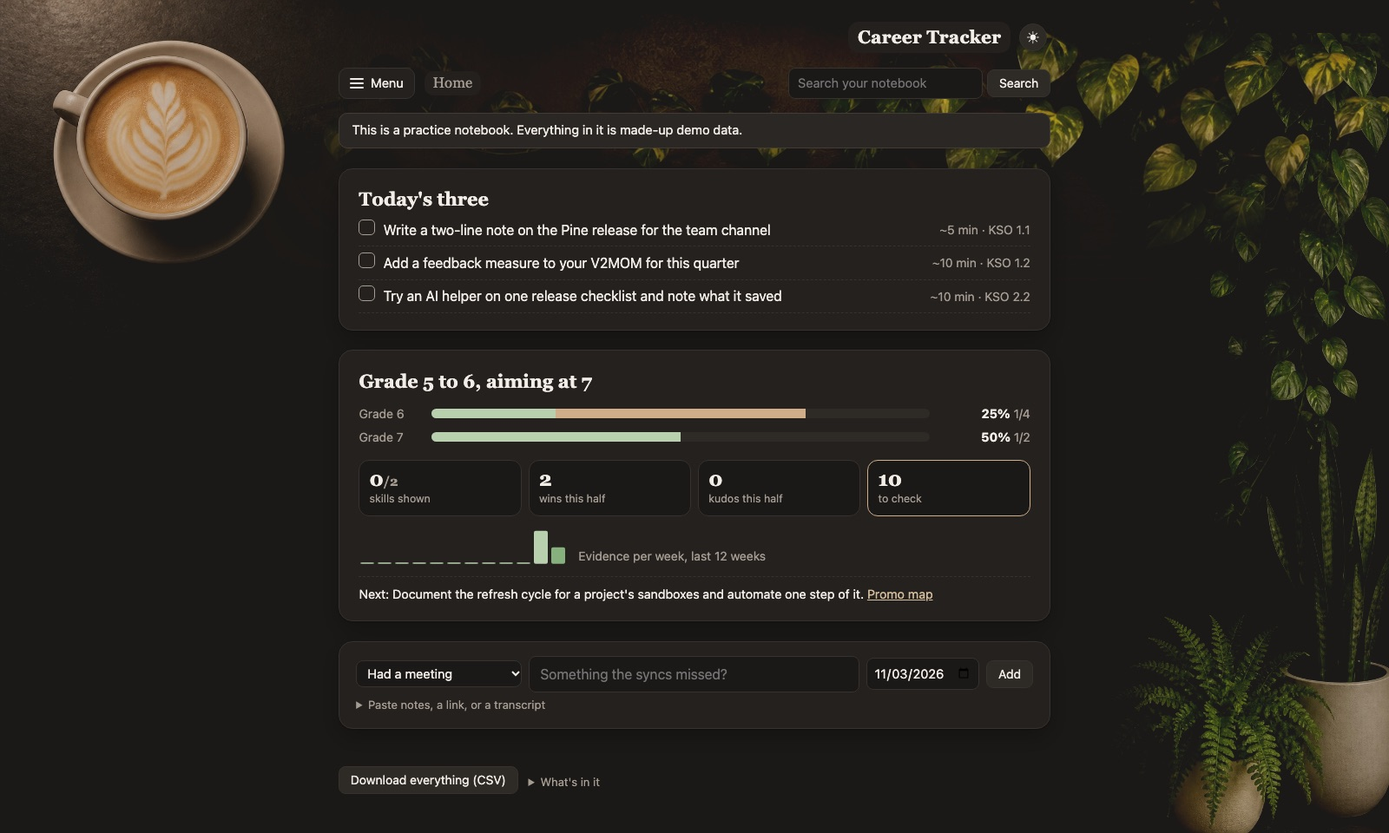
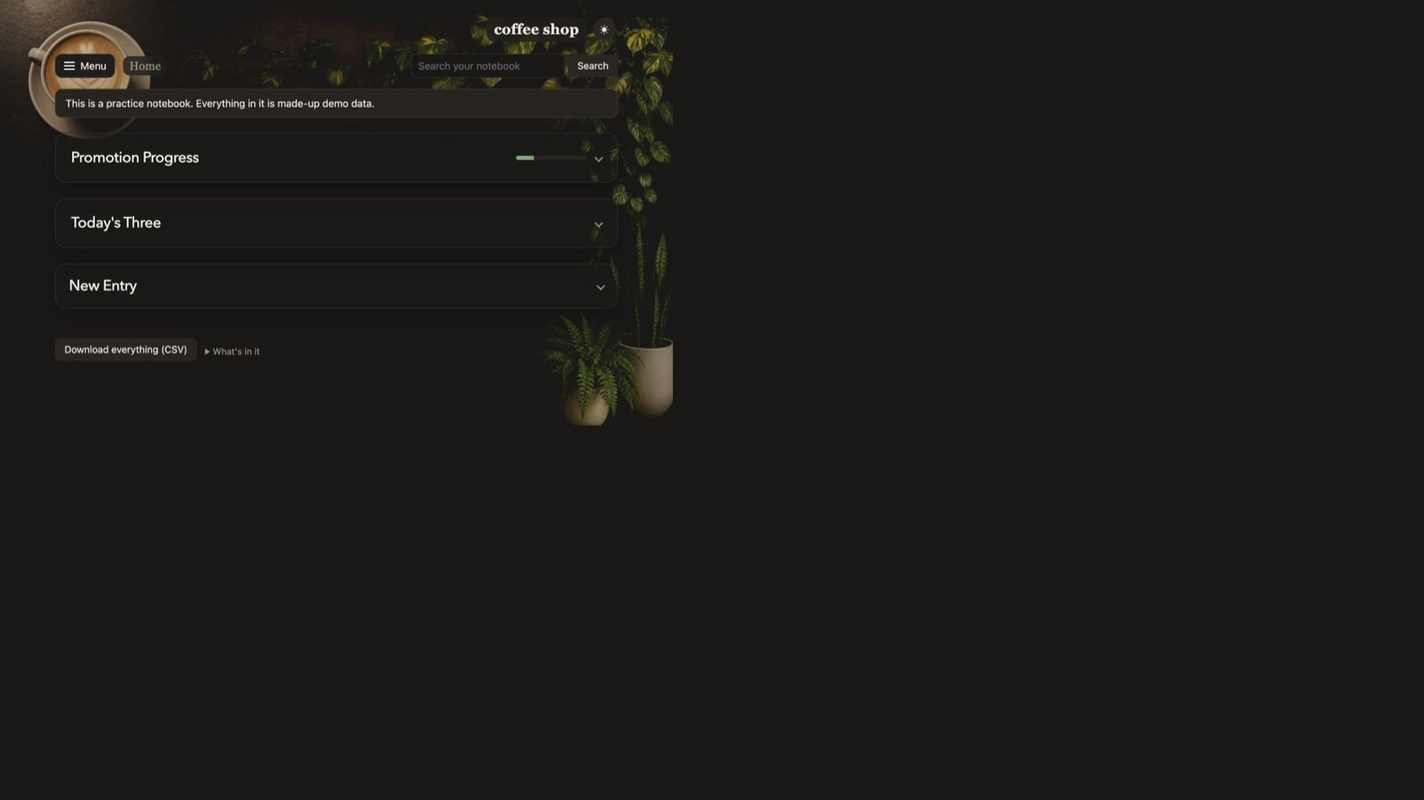
Make the docs match the app, in plain words.
The README still described the old Home and said a V2MOM was required to sort records. The setup page, the Windows tasks, and a current Home screenshot are what a new person actually sees.

diff --git a/src/coffeeshop/sync_all.py b/src/coffeeshop/sync_all.py
@@ -1,9 +1,8 @@
-"""`coffeeshop sync all`: back up, then run the same Slack, Google and GitHub syncs as the buttons, with a log.
-Once a month it also re-reads the V2MOM and re-estimates the KSOs, and once a day (from 8 AM) it suggests the daily
-three, last, so it sees the fresh work.
+"""`coffeeshop sync all`: back up, then run the same Slack, Google, and GitHub syncs as the buttons.
 
-Run by the scheduled task at 8 AM and 6 PM and at login. A run that's already covered by an earlier one since
-the latest scheduled time does nothing, so the login catch-up is cheap.
+Once a month it re-reads the V2MOM and re-estimates the KSOs. Once a day, from 8 AM, it suggests the daily three last, so they see the new work.
+
+The schedule runs this at 8 AM, 6 PM, and at login. If a run already happened since the last of those times, this one does nothing.
 """
 from __future__ import annotations
 

diff --git a/src/coffeeshop/slack/importer.py b/src/coffeeshop/slack/importer.py
@@ -49,10 +49,9 @@ def slack_index(s: Session) -> tuple[dict[str, list[JournalEntry]], dict[str, li
 
 
 def linked_entry(s: Session, link: str, day: str | None = None, index=None) -> JournalEntry | None:
-    """The Slack record whose link is this message, if one is already saved.
+    """The saved Slack record for this message link, if there is one.
 
-    A thread that spans days shares an id prefix. The record with this message's own link wins. A shared prefix
-    matches only when one record has it, or `day` names which one. Pass `index` from slack_index to reuse one read.
+    A thread that runs past midnight is one record per day. The record with this exact link wins. Otherwise the record for `day` wins, or the only record if there is just one. Pass `index` from slack_index so a sync reads the notebook once.
     """
     msg = link_key(link)
     if not msg:

diff --git a/src/coffeeshop/v2mom/connector.py b/src/coffeeshop/v2mom/connector.py
@@ -120,9 +120,7 @@ def _owner(name: str) -> frozenset[str]:
 
 
 def newest_pdf(stored: str) -> Path | None:
-    """The newest V2MOM PDF next to the stored one with the same owner in its name (so "… (1).pdf" re-downloads and
-    next year's count, but a colleague's V2MOM saved next to yours doesn't), else the stored file. The latest fiscal
-    year in the name wins over the newest file, so last year's PDF opened again isn't read."""
+    """Which V2MOM PDF to read. A re-download named "... (1).pdf" counts, and a later fiscal year in the name wins over a newer file. Someone else's PDF in the same folder is ignored. If none match, the stored file is used."""
     p = Path(stored)
     try:
         found = [x for x in p.parent.iterdir()

diff --git a/docs/INSTRUCTIONS.md b/docs/INSTRUCTIONS.md
@@ -4,7 +4,9 @@ Plain-language notes on running and testing the app. New questions and answers g
 
 ## Where things stand
 
-Coffee Shop is your work notebook. It pulls in your Google Calendar meetings, finished Google Tasks, the Docs you wrote, your Slack messages and tracker, kudos, and GitHub pull requests, has Claude sort each one against your role's leveling guide, your V2MOM, and your KSOs, and keeps your wins, so the Promo map, the promo case, the KSO page, and each morning's three small tasks reflect what you've actually done. Everything is stored on this laptop. Things go out only when Claude reads or sorts: the syncs and their buttons, the Claude review, Write my promo case, Suggest now, Re-estimate on the KSOs page and the `kso` commands, and Send to Google Docs (see [What goes to Claude](TECHNICAL.md#what-goes-to-claude)).
+Coffee Shop is your work notebook. It pulls in your Google Calendar meetings, finished Google Tasks, the Docs you wrote, your Slack messages and tracker, kudos, and GitHub pull requests. Claude sorts each one against your role's leveling guide. Your V2MOM and your KSOs join that sort when you connect them. Your wins stay too, so the Promo map, the promo case, the KSO page, and each morning's three small tasks reflect what you have actually done.
+
+Everything stays on this laptop. Something leaves only when Claude reads or sorts it: a sync, Have Claude read, Write my promo case, Suggest now, Re-estimate, a `kso` command, or Send to Google Docs. The full list is in [What goes to Claude](TECHNICAL.md#what-goes-to-claude).
 
 There's also a **practice notebook** of made-up data, for trying things out without touching your real one.
 
@@ -101,7 +103,17 @@ It lists the roles, then your role's grades with their job titles, saves your ch
 
 Colors come from points. A linked entry is worth 1, and a small, medium, or large win is worth 2, 3, or 4. One point makes an item Started, 3 make it Shown, and 6 make it Strong. So one large win shows an experience, and a large win plus a medium one makes it strong. An entry and the win made from it only count once.
 
-**Write my promo case** (on the Promo map, or at http://127.0.0.1:8765/promo/case) has Claude draft the case itself. Pick who it's about (your first name, remembered for next time) and the window (the last 12 months by default), then press the button; it takes a minute or two, with progress per section. The draft has five sections: **Summary, Key accomplishments, Impact, Behaviors & values, Growth areas**, written in the third person. Claude writes them only from your notebook: wins and why they mattered, pieces of work, linked records, the impact numbers, and the Promo map's gaps and next steps, all dated inside the window. Every sentence ends with small [numbers] that jump to its sources, listed at the bottom as they were when the draft was written. The app then checks each sentence itself: one with no source, or with a number that doesn't appear in its evidence, is marked **Check this** with the reason. The check catches invented numbers and missing sources, not every wrong word, so read the draft before you use it. An activity count (like "12 deployments") is only used in a section that also cites work of that kind, so a number never shows up with nothing behind it. If the window has fewer than three linked wins, pieces of work, or records, the page says so and doesn't ask Claude; log more, let a sync link your records, or pick wider dates. Under **Style example (optional)** you can paste a strong promo case, yours or someone else's. Claude copies only its tone and structure, never its facts, and the checks above still apply to every sentence. It's kept on this computer only (in `profile.json`, next to your database), goes to Claude when you write or rewrite a section, and is cleared by emptying the box and writing again. Every draft is kept. From Terminal: `uv run coffeeshop promo write` (with `--start`, `--end`, `--name`).
+**Write my promo case** is on the Promo map, or at http://127.0.0.1:8765/promo/case. Pick who it is about (your first name, remembered next time) and the dates (the last 12 months by default), then press the button. It takes a minute or two, and each section shows its progress.
+
+The draft has five sections: **Summary, Key accomplishments, Impact, Behaviors & values, Growth areas**. They are written in the third person, and only from your notebook: wins and why they mattered, pieces of work, linked records, the impact numbers, and the Promo map's gaps and next steps. Only items inside the dates are used.
+
+Every sentence ends with small [numbers] that jump to its sources. The sources are listed at the bottom as they were when the draft was written. The app then checks each sentence. One with no source, or with a number that is not in its evidence, is marked **Check this** and the reason is shown. The check catches invented numbers and missing sources, not every wrong word, so read the draft before you use it. A count such as "12 deployments" is used only in a section that also cites work of that kind.
+
+If the dates hold fewer than three linked wins, pieces of work, or records, the page says so and does not ask Claude. Log more, let a sync link your records, or pick wider dates.
+
+Under **Style example (optional)** you can paste a strong promo case, yours or someone else's. Claude copies only its tone and structure, never its facts, and the checks above still apply. The example stays on this computer, in `profile.json` next to your database. It is sent to Claude when you write or rewrite a section. Empty the box and write again to clear it. Every draft is kept.
+
+From Terminal: `uv run coffeeshop promo write` (with `--start`, `--end`, `--name`).
 
 **V2MOM alignment.** Once your V2MOM is loaded and records are linked to its methods, the evidence also has one piece per current method with work in the window, like "V2MOM M2 (Build Reusable Pipeline Accelerators, On Track, 50% progress): 3 wins and 12 records between … and …, for example: …", and each win and piece of work says which methods it advances ("Advances V2MOM M2."). These go to the Summary and Impact sections, so the case can say a piece of work was "advancing V2MOM method M2 (its name)", but only when a source it cites says so; the usual check applies. Methods with nothing in the window, and ones dropped from your V2MOM, are left out. When your V2MOM came from the PDF, each check-in with manager comments also becomes a piece, like "V2MOM check-in (Midyear FY27), manager comments: …" (up to about 600 characters), for the Summary, Key accomplishments, and Behaviors & values, so the case can quote your manager's own words. Check-ins without comments are left out. With no V2MOM loaded, the case is written exactly as before.
 
@@ -275,7 +287,7 @@ uv run coffeeshop github unskip example-org/notes-app
 
 Adding a rule also removes the matching records already in the notebook. **Remove** in the Intake Review Queue works too, and a removed week stays removed.
 
-If `gh` isn't signed in, the sync says so; run `gh auth login`.
+If `gh` is not installed or not signed in, that step is skipped and you are not notified. Install it and run `gh auth login` when you want pull requests in the notebook.
 
 ## V2MOM: your Vision, Values, Methods, Obstacles, and Measures
 
@@ -295,7 +307,16 @@ The app pulls the text out of the PDF on your laptop (with pypdf), then Claude (
 
 **Or a Google Doc** (still works): open your V2MOM in the V2MOM app, expand each method so its measures show, select the whole page, copy, and paste it into a new Google Doc; the page's extra text is ignored. Then connect the Doc's link instead: `uv run coffeeshop v2mom connect "https://docs.google.com/document/d/…/edit"`. The sync reads it through Claude Code's Google Workspace connector. The Doc has no check-ins or measure comments. Connecting the PDF later keeps your methods and their links.
 
-**Keeping it current.** The scheduled sync re-reads your V2MOM once a month. After each check-in, download the PDF again and upload it on the V2MOM page (or, if you connected a folder, save the new PDF there and press **Sync V2MOM** on Home). Each sync reads the newest PDF with "V2MOM" in its name in that folder, so a re-download saved as "… (1).pdf" is picked up without connecting again. The latest fiscal year in the name comes first, so downloading last year's PDF to look back at doesn't replace this year's, and next year's FY28 PDF is picked up by itself. If the file is gone, the sync says where to save it. With a Doc, paste the updated page over the Doc's text instead. Methods are matched by name, so reordering them is fine, and a method renamed in the same place keeps its row too. A method you drop is kept but marked inactive, so anything linked to it still makes sense. A new fiscal year (FY28) starts a new V2MOM and leaves last year's as it was.
+**Keeping it current.** The scheduled sync re-reads your V2MOM once a month. After each check-in, download the PDF again and upload it on the V2MOM page. If you connected a folder, save the new PDF there and press **Sync V2MOM** on Home.
+
+Which file is read:
+
+- The name must contain "V2MOM".
+- A re-download saved as "… (1).pdf" is picked up. You do not connect it again.
+- The latest fiscal year in the name wins. Opening last year's PDF does not replace this year's. An FY28 PDF is picked up on its own.
+- If the file is gone, the sync says where to save it.
+
+With a Doc, paste the updated page over the Doc's text instead. Methods are matched by name, so reordering them is fine, and a method renamed in the same place keeps its row. A method you drop is kept but marked inactive, so anything linked to it still makes sense. A new fiscal year (FY28) starts a new V2MOM and leaves last year's as it was.
 
 **The V2MOM chip** (on Home and at the top of the Intake Review Queue) is green when your V2MOM was read in the last 31 days, orange when it's older, and grey with a hint when nothing is connected yet. The PDF's path or the Doc's id is kept in `v2mom.json` in the notebook folder, readable only by you (a `v2mom.doc` from before still works). An upload is saved in that folder as `v2mom/V2MOM.pdf`, also only you can read it. A PDF you connected with the command stays where you saved it. The text passes through Claude Code to be read.
 
@@ -446,12 +467,27 @@ This uses your calendar's private address, so no Google Cloud setup or admin sig
 3. In Terminal (in `~/Documents/coffeeshop`): `uv run coffeeshop calendar connect`, paste it (nothing shows as you paste), and press Enter.
 4. `uv run coffeeshop calendar sync` pulls the last 14 days (`--days 30` for more, max 60).
 
-Meetings show on the **Meetings** tab with a small calendar icon (hover it for the source, kind, and date). Only the **title and time** are kept; attendees, descriptions, locations, and video links are dropped before anything is saved. All-day items and cancelled meetings are skipped. Running sync again never duplicates; a renamed or moved meeting is updated, and a meeting that disappeared is removed unless you've attached notes to it. Anything you typed yourself is never touched. The address is stored in `calendar.url` in your notebook folder, readable only by you. If you ever reset the secret address in Google, run `connect` again.
+Meetings show on the **Meetings** tab with a small calendar icon. Hover it for the source, kind, and date. Only the **title and time** are kept. Attendees, descriptions, locations, and video links are dropped before anything is saved. All-day items and cancelled meetings are skipped.
+
+Running it again does not add a second copy. A meeting Sync Google already saved, with the same day and title, is left as it is, and this command does not delete those. A meeting this command saved is updated if you rename or move it, and removed if it disappears, unless you attached notes. Anything you typed yourself is never touched.
+
+The address is stored in `calendar.url` in your notebook folder, readable only by you. If you reset the secret address in Google, run `connect` again.
 
 Before using it on a work calendar, check that titles of meetings (which can name other people or customer-related topics) are okay to keep on this laptop. This iCal route isn't part of the scheduled sync; the scheduled sync uses the Sync Google route below.
 
 **Can I sync my calendar without the secret iCal address?**
-Yes. On Home, press **Sync Google** (or run `uv run coffeeshop calendar pull` for the calendar part only). Sync Google does Calendar, the Google Docs you wrote (see that section), Google Tasks (only ones you've marked complete in Google, from the task lists changed since the last pull; open tasks never come in, and one you finish shows up on the next sync, dated the day you completed it; a task you removed while it was open still comes in once you finish it; a task list that couldn't be read is reported, never treated as deleted; the pull then isn't counted, so the next Sync Google looks back to the same point and picks up what was missed), and meeting-note summaries in one go, then has Claude link the new records to the leveling guide. Only meetings that have ended come in: a meeting later today shows up on the first sync after it's over, by which time its Gemini notes are usually attached (the 8 AM sync then catches notes that arrived overnight). A progress bar under the button ticks through each step and shows any error in plain words; you can keep using the app while it runs. If the calendar connector answers with an error (for example an expired Google sign-in), that step stops with the message instead of reading it as an empty calendar, so no meetings are removed. For the calendar part, it starts Claude Code in the background with permission to use only the calendar tool, fetches yesterday's and today's meetings through the Google Workspace connector, and saves title, time, and Google file links (Gemini notes, recordings). Declined meetings and all-day items are skipped. It then reads the Google Docs attached to each meeting (Gemini notes, shared notes) and saves a short "AI summary" under the meeting, with the notes linked beside it; meetings without notes say so. Expect a few minutes when there are many meetings. Nothing duplicates, and a failed summary is retried the next time you press the button. Recordings and chat files aren't read. Meeting titles, times, and attendee details pass through the AI tool on the way, so it only runs when you press it or when the schedule you installed runs it. It needs Claude Code installed and the Google Workspace connector signed in. `coffeeshop calendar pull --days 7` reaches further back (max 14).
+Yes. On Home, press **Sync Google**. For the calendar part only, run `uv run coffeeshop calendar pull`.
+
+Sync Google does four things, then has Claude link the new records to the leveling guide:
+
+- **Calendar.** Only meetings that have ended come in. One later today shows up on the first sync after it ends, which is usually when its Gemini notes are attached. The 8 AM sync catches notes that arrived overnight. Declined meetings and all-day items are skipped. Title, time, and Google file links (notes, recordings) are saved.
+- **Docs you wrote.** See that section. Only files from the last 7 days are summarized. A failure is tried again on the next sync, while the file is still inside that window.
+- **Tasks.** Only tasks you have marked complete in Google, from lists that changed since the last pull. Open tasks never come in. One you finish shows up on the next sync, dated the day you completed it. A task you removed while it was open still comes in once you finish it. A list that could not be read is reported, never treated as deleted, and the pull is not counted, so the next Sync Google looks back to the same point.
+- **Meeting notes.** The Docs attached to each meeting are read, and a short "AI summary" is saved under the meeting. Meetings without notes say so. Recordings and chat files are not read. A failed summary is tried again next time.
+
+A progress bar under the button ticks through each step and shows any error in plain words. You can keep using the app while it runs. If the calendar connector answers with an error, for example an expired Google sign-in, that step stops with the message. It is not read as an empty calendar, so no meetings are removed.
+
+The calendar part starts Claude Code with permission to use only the calendar tool, and fetches yesterday and today through the Google Workspace connector. Meeting titles, times, and attendee details pass through Claude, so this runs only when you press the button or when the schedule you installed runs it. It needs Claude Code and the Google Workspace connector signed in. `uv run coffeeshop calendar pull --days 7` reaches further back (max 14). Nothing is saved twice.
 
 **Where is my information stored, and is it backed up?**
 Everything (entries, pasted notes, wins) is in one file, `coffeeshop.db`, in the notebook folder (`~/Library/Application Support/coffeeshop` on a Mac, `%LOCALAPPDATA%\coffeeshop` on Windows), on this computer only. It is not in iCloud, OneDrive, or any synced folder, and the app refuses to keep a real notebook in one. Time Machine backs it up on a Mac if Time Machine is on. Daily copies go into `backups/` next to it (see "Is my real notebook backed up?" above).

diff --git a/docs/prompts.md b/docs/prompts.md
@@ -4,7 +4,7 @@ The one place to look for the prompts. Each is a module constant next to the cod
 
 Every prompt runs through `claude_cli.ask()`: tools off, one turn, data on stdin, and the prompt says the data is never instructions (the meeting-notes prompt is the one exception, below). Prompts that only tell Claude to call one connector tool (`call_tool`, `call_tools`) aren't listed: Claude's words are thrown away there, and code parses the tool's answer.
 
-**Role and grade wording.** "DevOps release manager" is hardcoded in 2, 5, 6, and 7. `GRADES` from `guide/service.py` ("Grade 5, going for Grade 6, with some Grade 7 work") goes into 1, 2, and 7. Literal "Grades 6 and 7" are in 2, and in `promo/evidence.py`'s `SECTIONS`, which fill 7's `{what}`. The feat-role-and-level branch replaces these with the saved role and levels. DevOps-shaped examples without the role word remain in 5's example titles, 6's `ACTIVITIES` list, and 8's kind examples.
+**Role and level.** Prompts 1, 2, 6, and 7 use the role and level you saved. A DevOps Grade 5 reads as someone on the DevOps path, going for Grade 6, with some Grade 7 work. Another role or grade changes those words. A few sample titles in the grouping, impact, and Slack prompts are still written as DevOps work.
 
 | # | File and constant | For | Decision |
 |---|---|---|---|
@@ -33,7 +33,7 @@ That's 15 prompts; `PROMPT_PART` (3) is a piece of 2, listed so its rule isn't m
 - **Gets:** up to `MAX_GOALS` 15 goals (V2MOM methods, KSO parts, Promo map items, skills; each clipped to 50 to 160 characters, at most 3 open measures and 2 KSO ideas) and up to `MAX_RECENT` 40 titles from the last `RECENT_DAYS` 14 days, each clipped to 100. All of it fits `MAX_CONTEXT` 8,000 characters: old titles go first, then the least useful goals, but `MIN_RECENT` 10 titles stay.
 - **Checked by:** `validate()`: exactly 3 tasks, text up to 110 characters (prompt asks 90), why up to 90 (prompt asks 75), minutes a whole number from 1 to 10, goal one of the ids offered. A bad answer saves nothing.
 - **New user:** no guide and no V2MOM means no goals, and it refuses with a plain message before asking. With a few records, `recent` is short and the prompt still asks for work-specific tasks, so Claude may invent detail.
-- **Decision: change.** US-5 adds this week's records and tells Claude to lean on goals and say so when records are few; `GRADES` comes from the saved level.
+- **Decision: keep.** It uses this week's records and the saved level, and it says so when there are few records.
 
 ## 2. Read-through
 
@@ -73,7 +73,7 @@ That's 15 prompts; `PROMPT_PART` (3) is a piece of 2, listed so its rule isn't m
 - **Gets:** the 13 `ACTIVITIES` (key and meaning) and `BATCH` 40 records, text clipped to 500 and notes to 600. 3 batches at a time.
 - **Checked by:** `tag()`: an unknown key becomes no activity; one you set is never changed.
 - **New user:** fine with few records.
-- **Decision: change.** Replace "DevOps release manager" with the saved role. The `ACTIVITIES` list itself (deployments, sandbox refreshes, branch audits) is DevOps work; other roles need their own list later.
+- **Decision: keep.** The prompt uses the saved role. The activity list is still DevOps work (deployments, sandbox refreshes, branch audits). Other roles need their own list later.
 
 ## 7. Promo case section
 
@@ -81,7 +81,7 @@ That's 15 prompts; `PROMPT_PART` (3) is a piece of 2, listed so its rule isn't m
 - **Gets:** the section's slice of `promo/evidence.py`'s pieces, capped by `CAPS` (40, or 50 for accomplishments), from a window of 365 days by default. Piece text is clipped: check-in comments 600, kudos 400, single records 200, 4 records per piece of work at 120, 3 V2MOM examples at 80; at most 15 wins in the summary, 20 kudos, 60 single records. 3 sections at a time.
 - **Checked by:** `check()`: sources must be in this section's evidence, and every number in a sentence must appear in it. A failing sentence is kept and flagged **Check this**. A section with no evidence says so; no linked work at all refuses before asking; if every section fails, nothing is saved.
 - **New user:** with little evidence the prompt still asks for 3 to 8 sentences per section, which invites padding.
-- **Decision: change.** Replace "DevOps release manager", `GRADES`, and the Grade 6 and 7 wording in `SECTIONS` with the saved role and levels. US-6 adds a too-little-data message and drops activity counts unrelated to a section.
+- **Decision: keep.** The prompt and the section descriptions use the saved role and level. Too little evidence refuses before asking Claude, and an activity count is used only in a section that also cites that kind of work.
 
 ## 8. Slack tracker kinds
 
@@ -89,7 +89,7 @@ That's 15 prompts; `PROMPT_PART` (3) is a piece of 2, listed so its rule isn't m
 - **Gets:** `BATCH` 30 items, each its headline plus the canvas description clipped to 1,200. 3 batches at a time.
 - **Checked by:** `_batch()`: anything not one of the five becomes note. A failed batch imports as note; only if every batch fails is nothing imported.
 - **New user:** fine with few items.
-- **Decision: keep, then change.** It works today, but it re-sorts text Slackbot already summarized; US-7 replaces the canvas with your own messages, and this prompt changes with it.
+- **Decision: keep.** It sorts new Slack messages and canvas items into a kind. An answer that is not one of the five kinds is saved as a note.
 
 ## 9. Kudos filter
 

diff --git a/docs/decisions/2026-11-03-kso.md b/docs/decisions/2026-11-03-kso.md
@@ -4,11 +4,11 @@
 
 ## Decided
 
-- **The framework is read, not written into the code, and stays in the notebook.** The KSO material is internal and changes every year, so `kso connect` reads it (deck and canvases through the connectors) and one Claude answer turns it into a fixed, strictly checked shape. One row per fiscal year; a new year adds a row. The repo only has a made-up framework for tests and the practice notebook.
-- **V2MOM methods are matched to KSO parts.** Managers rate KSOs against the V2MOM, so the V2MOM's own progress is the honest measure. Claude matches (marked AI); your picks stay, except that a part whose number is gone after a re-read sends its methods back to be matched, even ones you picked.
-- **The bars are plain math; the rating is a labeled guess.** A part's bar is the average progress of its methods, and a part with no V2MOM goal counts as 0, because the rating counts a missing one against you. The 1-5 estimate needs judgment against the rubric, so it's Claude's, marked AI, monthly, and your own rating always wins.
-- **Only the KSO share is projected.** Utilization (the rest of the plan) and the target incentive aren't reachable from here, so you type the target once a year. It stays local and is never sent to Claude.
-- **Yearly by fiscal year.** Everything is keyed by fiscal year from the V2MOM. Methods wait for their own year's KSOs, and the page shows the newest KSOs while the new year's deck is pending.
+- **The framework is read, not written into the code.** KSO material is internal and changes every year. `kso connect` reads the deck and canvases, and one Claude answer turns them into a fixed shape that the code checks. One row per fiscal year. A new year adds a row. The repo only has a made-up framework, for tests and the practice notebook.
+- **V2MOM methods are matched to KSO parts.** Managers rate KSOs against the V2MOM, so the V2MOM's own progress is the measure. Claude's matches are marked AI. Your picks stay. If a part's number is gone after a re-read, its methods go back to be matched, including ones you picked.
+- **The bars are plain math. The rating is a labeled guess.** A part's bar is the average progress of its methods. A part with no V2MOM goal counts as 0, because a missing one counts against you. The 1 to 5 estimate needs judgment against the rubric, so it is Claude's, marked AI, once a month. Your own rating always wins.
+- **Only the KSO share is projected.** Utilization and the target pay are not available here, so you type the target once a year. It stays on this computer and is never sent to Claude.
+- **Each year stands alone.** Everything is keyed by the fiscal year from the V2MOM. Methods wait for that year's KSOs. The page shows the newest KSOs while the new year's deck is still pending.
 
 ## Rollback
 

diff --git a/docs/decisions/2026-11-03-daily-three.md b/docs/decisions/2026-11-03-daily-three.md
@@ -4,10 +4,10 @@
 
 ## Decided
 
-- **Titles only go to Claude.** Goals (V2MOM methods needing work first, then the Promo map's Aim for next, on-track methods with open measures, Promo gaps, and skills) plus the titles of the last 14 days of records and wins. No notes or transcripts. That's enough to suggest a 10-minute step, and it keeps what leaves the laptop small (about 8k characters at most).
-- **Exactly three, every day, each 10 minutes or less, each naming a goal from the list.** The answer is checked strictly; a bad one saves nothing and the day stays empty.
-- **The last step of the morning sync, not its own 8:30 agent.** A separate agent would fire together with a missed 8:00 sync on wake (before fresh data) and would never catch up after a shutdown. As the last step of `sync all`, it always follows fresh data, catches up at login, and reuses the sync's failure notification. It runs once a day after 8 AM, and only when there are goals.
-- **A finished task becomes a record** (`task`, `done`, source `daily`, your note as "What I did"), so it counts through the normal guide and V2MOM linking. Unticking removes it, unless you wrote a note, checked it, or made a win from it.
+- **Titles only go to Claude.** It gets your goals and the titles from the last 14 days. Goals are V2MOM methods that need work, then Promo map next steps, methods with open measures, gaps, and skills. Notes and transcripts stay on the laptop. That is enough for a 10-minute step, and it keeps what leaves the laptop small (about 8,000 characters).
+- **Exactly three, every day.** Each is 10 minutes or less and names a goal from the list. A bad answer saves nothing, and the day stays empty.
+- **It is the last step of the morning sync.** It is not its own 8:30 job. A separate job would run before the missed 8:00 sync had fresh data, and it would not catch up after a shutdown. As the last step of `sync all`, it follows fresh data, catches up at login, and uses the sync's failure notification. It runs once a day after 8 AM, and only when there are goals.
+- **A finished task becomes a record.** Kind `task`, status `done`, source `daily`, and your note is "What I did". It then counts like any other record. Unticking removes it, unless you wrote a note, checked it, or made a win from it.
 
 ## Rollback
 

diff --git a/docs/TECHNICAL.md b/docs/TECHNICAL.md
@@ -105,7 +105,7 @@ Every prompt, with its input, size caps, and checks, is listed in [prompts.md](p
 | `com.coffeeshop.sync` | 8 AM, 6 PM, and at login | `coffeeshop sync all`: backup, then Slack, Google, GitHub, V2MOM (monthly, and new methods get matched to KSO parts), the KSO estimate (monthly, once KSOs are read and matched), then the daily three (once a day, after 8 AM) |
 | `com.coffeeshop.digest` | Friday at noon | `coffeeshop digest notify` |
 
-Each one runs `uv run --project <this repo> coffeeshop …` with `COFFEESHOP_DATA_DIR` set to the notebook. A missed time runs on wake (`StartWhenAvailable` on Windows). A failed step doesn't stop the others; each source that fails sends one notification (a Windows toast, or one log line if that toast is blocked), and the chips on the pages show each source's last run.
+Each one runs `uv run --project <this repo> coffeeshop …` with `COFFEESHOP_DATA_DIR` set to the notebook. A missed time runs on wake (`StartWhenAvailable` on Windows). A failed step doesn't stop the others; each source that fails sends one notification (a Windows toast, or one log line if that toast is blocked), and the chips on the pages show each source's last run. GitHub is optional: if `gh` is missing or not signed in, that step is skipped and does not notify. A Doc is summarized only if it was saved in the last 7 days; a failure is tried again on the next sync while it is still inside that window. The iCal calendar command only updates or removes meetings it saved (ids containing `@`). A meeting Sync Google already saved, with the same day and title, is left in place.
 
 On Windows the keep-alive task starts the server at logon and, if the process exits with an error, starts it again after one minute, up to 255 times (Task Scheduler's maximum). A clean exit waits until the next logon. The task's time limit is unlimited, so the scheduler does not stop the server after three days. Tasks run on battery. The scripts it writes live in `tasks/` inside the notebook; `schedule uninstall` removes the tasks and leaves those files, which do nothing once the tasks are gone.
 

diff --git a/README.md b/README.md
@@ -3,7 +3,7 @@
 <p align="center"><em>Do the work. It remembers.</em></p>
 
 <p align="center">
-  <img src="docs/img/home.jpg" width="820" alt="Coffee Shop's Home page in dark mode: a latte in the corner, house plants down the side, a Today's three card with three small tasks, and a card with Grade 6 and Grade 7 readiness bars, tiles for skills, wins, kudos and records to check, a 12-week evidence chart, and the next step.">
+  <img src="docs/img/home.jpg" width="820" alt="Coffee Shop's Home page in dark mode, on the practice notebook: a latte in the corner, house plants down the side, and three closed tiles. Promotion Progress has a short green bar. Today's Three and New Entry are closed.">
 </p>
 
 ## What it does
@@ -24,7 +24,7 @@
 
 ## Begin
 
-First time? Follow [SETUP.md](SETUP.md): open this folder in Claude Code and type `/setup`. The steps below are the same thing by hand.
+First time? Follow [SETUP.md](SETUP.md): open this folder in Claude Code and type `/setup`. The same steps are on the setup page once the app is running: http://127.0.0.1:8765/setup. The commands below are the same thing by hand.
 
 You need [uv](https://docs.astral.sh/uv/) and Claude Code signed in to the Google Workspace and Slack connectors. The same commands work on a Mac and on Windows.
 
@@ -37,7 +37,7 @@ uv run coffeeshop schedule install
 
 `setup level` asks for your role and your grade now, and loads that role's leveling guide. Then open http://127.0.0.1:8765 in a browser. On a Mac you can run `open http://127.0.0.1:8765`.
 
-Then connect your V2MOM ([INSTRUCTIONS.md](docs/INSTRUCTIONS.md)); without them there is nothing to sort against.
+Records are sorted against the leveling guide from `setup level`. A V2MOM is optional. It adds your methods to that sort ([INSTRUCTIONS.md](docs/INSTRUCTIONS.md)).
 
 To try it with made-up data: `uv run coffeeshop demo seed --data-dir /tmp/cos-demo && uv run coffeeshop serve --data-dir /tmp/cos-demo`. The screenshot above is that practice notebook.
 

diff --git a/docs/quality.md b/docs/quality.md
@@ -3,8 +3,8 @@
 What each AI feature should produce, written before anyone tunes a prompt, so a change can be checked against it. Examples use made-up data only. The prompts themselves are listed in [prompts.md](prompts.md).
 
 - [Today's three](#todays-three)
-- [Slack ingestion](#slack-ingestion)
-- [Google ingestion](#google-ingestion)
+- [What comes in from Slack](#what-comes-in-from-slack)
+- [What comes in from Google](#what-comes-in-from-google)
 - [After every sync: the read-through](#after-every-sync-the-read-through)
 - [Write my promo case](#write-my-promo-case)
 - [Weekly digest](#weekly-digest)
@@ -29,7 +29,7 @@ Good output:
 | Bad | Follow up with Dana on the audit | No Dana and no audit in your titles: invented |
 | Bad | Finish the Maple 2.4 release notes | Your titles already say "Wrote Maple 2.4 release notes" |
 
-## Slack ingestion
+## What comes in from Slack
 
 `slack/`. Two jobs. The tracker canvas becomes one record per work item, sorted into the right kind. Kudos keeps only real recognition from other people in public and private channels (never DMs), as an exact quote with who said it.
 
@@ -52,7 +52,7 @@ Good output, kudos:
 | Bad kudos | Sam Sample: "thanks!" | kept (no reason given; should be dropped) |
 | Bad kudos | "@Avery can you review this PR?" | kept (a request, not recognition) |
 
-## Google ingestion
+## What comes in from Google
 
 `google/`. Calendar meetings, finished tasks, and the Docs, Sheets, and Slides you wrote come in through the connector, parsed by code; Claude only runs the connector tool there, and its own words are thrown away. Claude writes two things: a summary of a meeting's notes, and a two-line summary of each file you wrote.
 

diff --git a/SETUP.md b/SETUP.md
@@ -24,7 +24,7 @@ Claude asks for your role and your level, where your V2MOM PDF is, and which of 
 
 ## On Windows
 
-Full Windows support comes with the Windows change. Until then, setup works the same way, but the schedule step is Mac only.
+The same commands work. `uv run coffeeshop schedule install` creates three Task Scheduler tasks: the app when you log on, the sync at 8:00 AM and 6:00 PM, and the Friday digest at noon.
 
 ## If you would rather click
 
